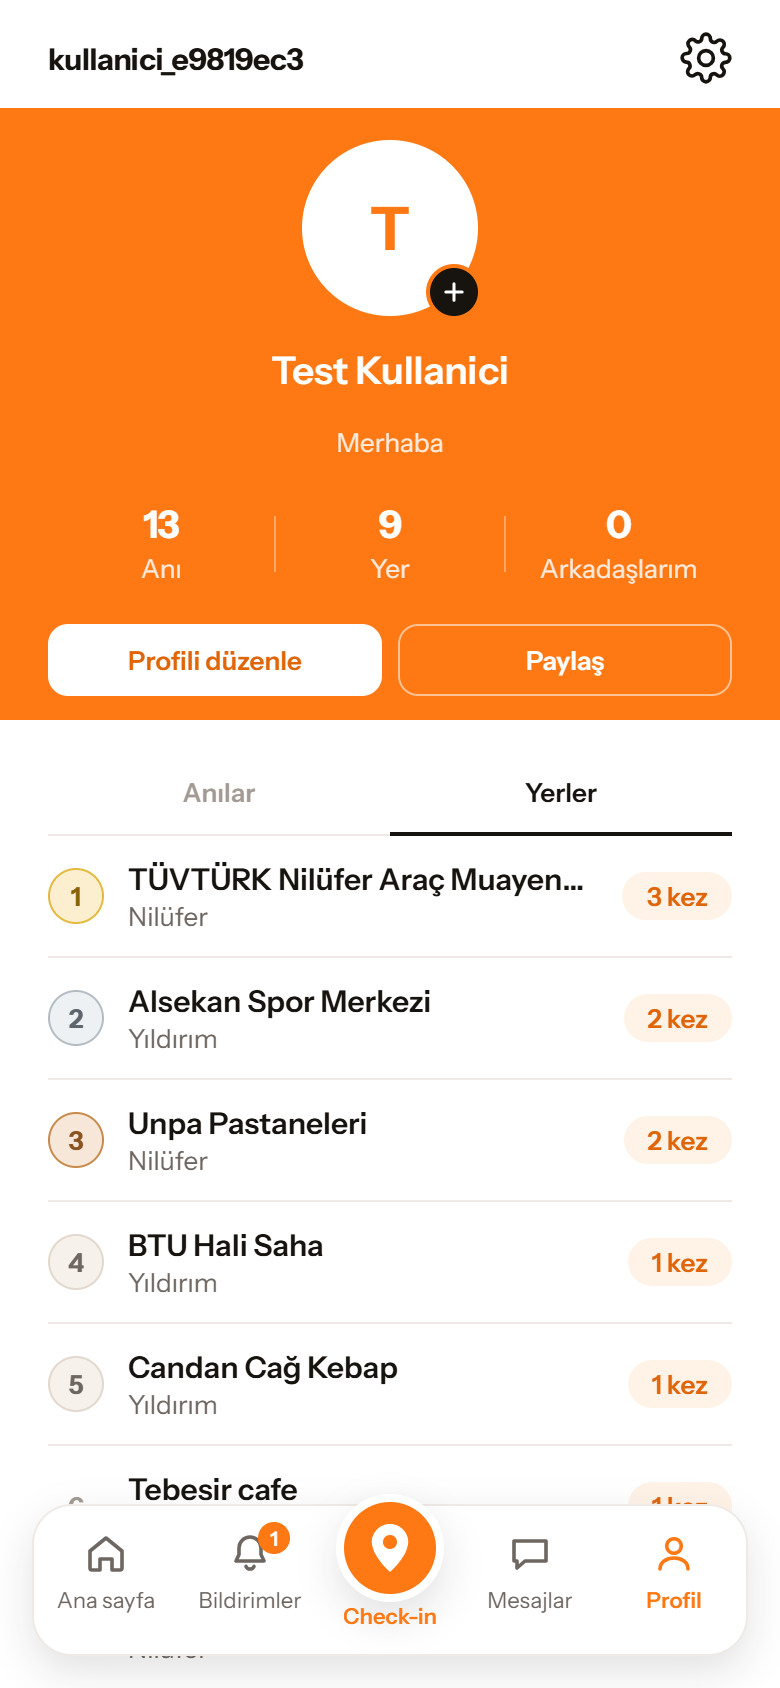
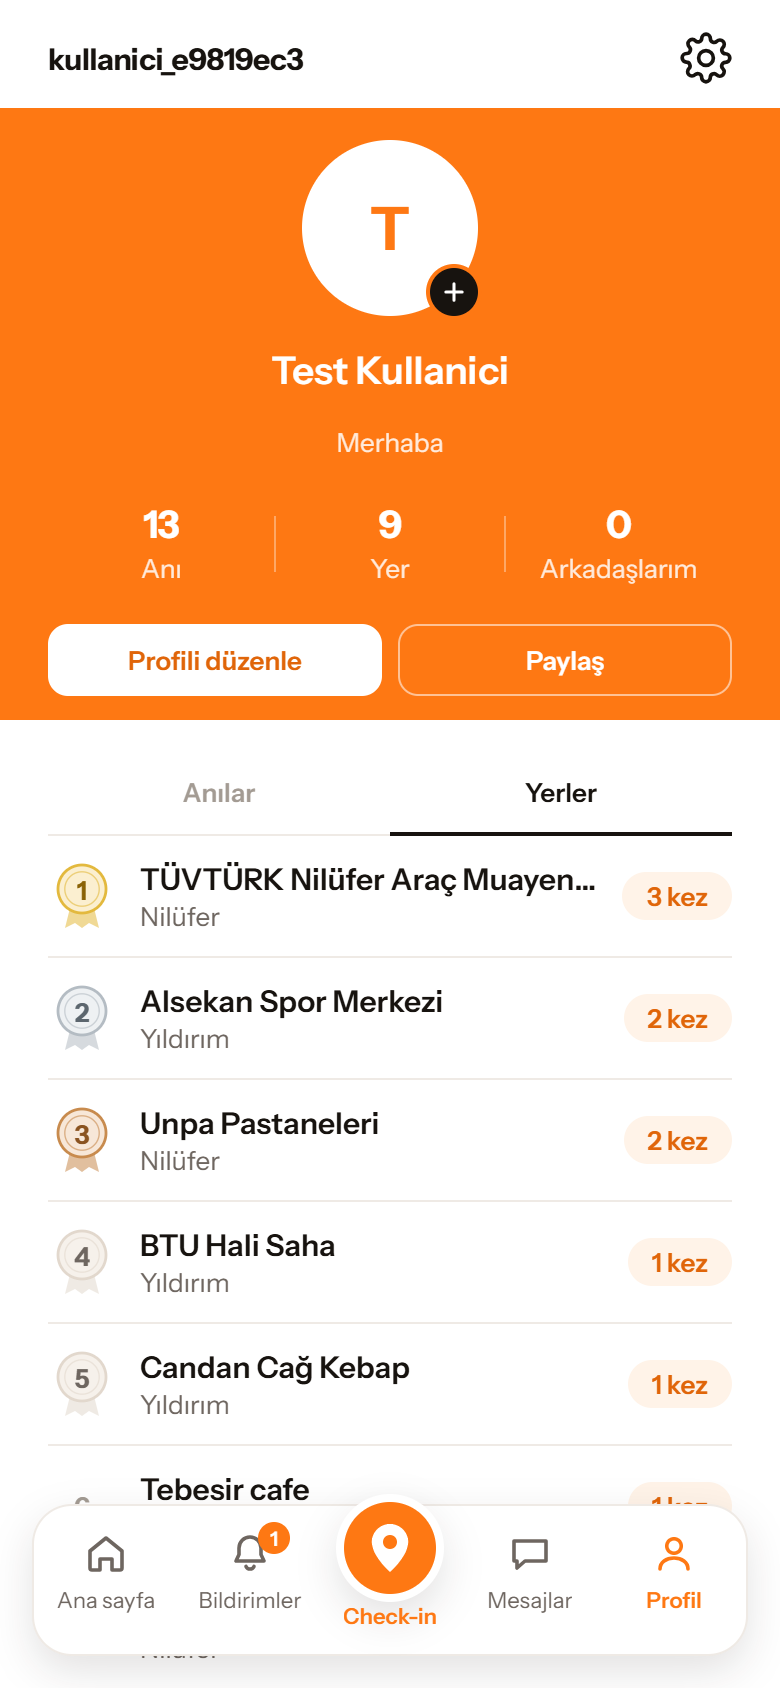
feat(profil): sira rozeti kurdeleli madalya oldu
Kullanicinin secimi (2026-08-30): dort varyant icinden 3 numara.
Daire + altindan sarkan iki kurdele ucu + ic halka (kabartma hissi).
Madalya renkleri degismedi: altin, gumus, bronz; 4-5 notr.

Rakam SVG'nin ICINDE degil, USTUNDE duran bir React Native metni.
Sebep: react-native-svg'nin kendi Text ogesi uygulamanin yazi
ailesini almiyor ve olcek degisince kayiyor.

Rozet alani 34x36; genislik duz rakamla ayni tutuldu ki altinci
satirdan itibaren metinler sola kaymasin.

Yayindaki surumden ekran goruntusuyle dogrulandi. jest 52 paket /
460 test yesil, tsc taban.

Claude-Session: https://claude.ai/code/session_01RPADX9vz5pGDstg48GDVRa

diff --git a/mobil/src/app/profil/index.tsx b/mobil/src/app/profil/index.tsx
@@ -111,13 +111,39 @@ function SiraRozeti({ sira }: { sira: number }) {
   if (!madalya) {
     return <Text style={stiller.yerSiraDuz}>{sira}</Text>
   }
+
+  // Kurdeleli madalya (kullanicinin secimi 2026-08-30, dort varyant
+  // icinden). Rakam SVG'nin ICINDE degil, USTUNDE duran bir RN metni:
+  // react-native-svg'nin kendi Text'i uygulamanin yazi ailesini
+  // almiyor ve olcekle oynadiginda kayiyor.
   return (
-    <View
-      style={[
-        stiller.yerSiraRozet,
-        { backgroundColor: madalya.zemin, borderColor: madalya.kenar },
-      ]}
-    >
+    <View style={stiller.yerSiraAlan}>
+      <Svg width={34} height={36} viewBox="0 0 34 36">
+        {/* Kurdele: dairenin altindan sarkan iki uc. */}
+        <Path
+          d="M11 24 L8.5 34 L13.5 31.5 L17 34 L20.5 31.5 L25.5 34 L23 24z"
+          fill={madalya.kenar}
+          opacity={0.55}
+        />
+        <Circle
+          cx={17}
+          cy={14.5}
+          r={12}
+          fill={madalya.zemin}
+          stroke={madalya.kenar}
+          strokeWidth={1.4}
+        />
+        {/* Ic halka: madalya kabartmasi hissi. */}
+        <Circle
+          cx={17}
+          cy={14.5}
+          r={8.6}
+          fill="none"
+          stroke={madalya.kenar}
+          strokeWidth={0.7}
+          opacity={0.6}
+        />
+      </Svg>
       <Text style={[stiller.yerSiraRozetYazi, { color: madalya.yazi }]}>{sira}</Text>
     </View>
   )
@@ -662,22 +688,21 @@ const stiller = StyleSheet.create({
     borderBottomWidth: 1,
     borderBottomColor: renk.cizgi,
   },
-  // Ilk bes: dolu rozet. Genislik duz rakamla AYNI (28) ki satirlar
-  // birbirine gore kaymasin.
-  yerSiraRozet: {
-    width: 28,
-    height: 28,
-    borderRadius: 14,
-    borderWidth: 1,
-    alignItems: 'center',
-    justifyContent: 'center',
-  },
+  // Ilk bes: kurdeleli madalya. Genislik duz rakamla AYNI (34) ki
+  // altinci satirdan itibaren metinler sola kaymasin.
+  yerSiraAlan: { width: 34, height: 36, alignItems: 'center', justifyContent: 'center' },
   yerSiraRozetYazi: {
+    position: 'absolute',
+    // Dairenin merkezi 36'lik kutunun 14.5'inde; metin optik olarak
+    // oraya oturtuluyor.
+    top: 7,
+    width: 34,
+    textAlign: 'center',
     fontFamily: yazi.ekranBasligi,
     fontSize: olcek.kucuk,
   },
   yerSiraDuz: {
-    width: 28,
+    width: 34,
     textAlign: 'center',
     fontFamily: yazi.ekranBasligi,
     fontSize: olcek.kucuk,
